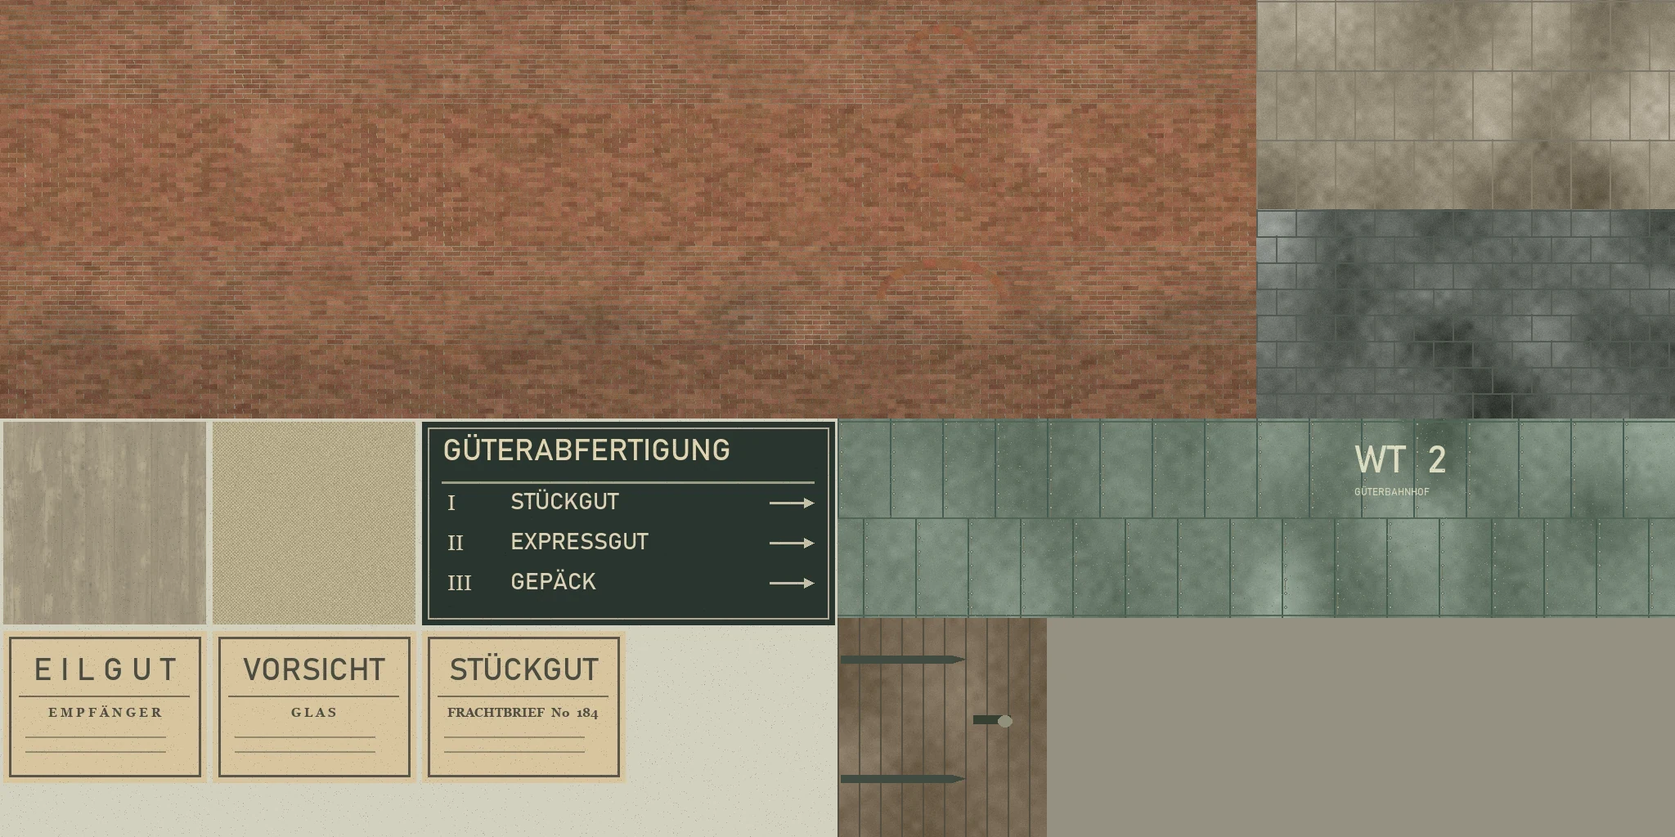
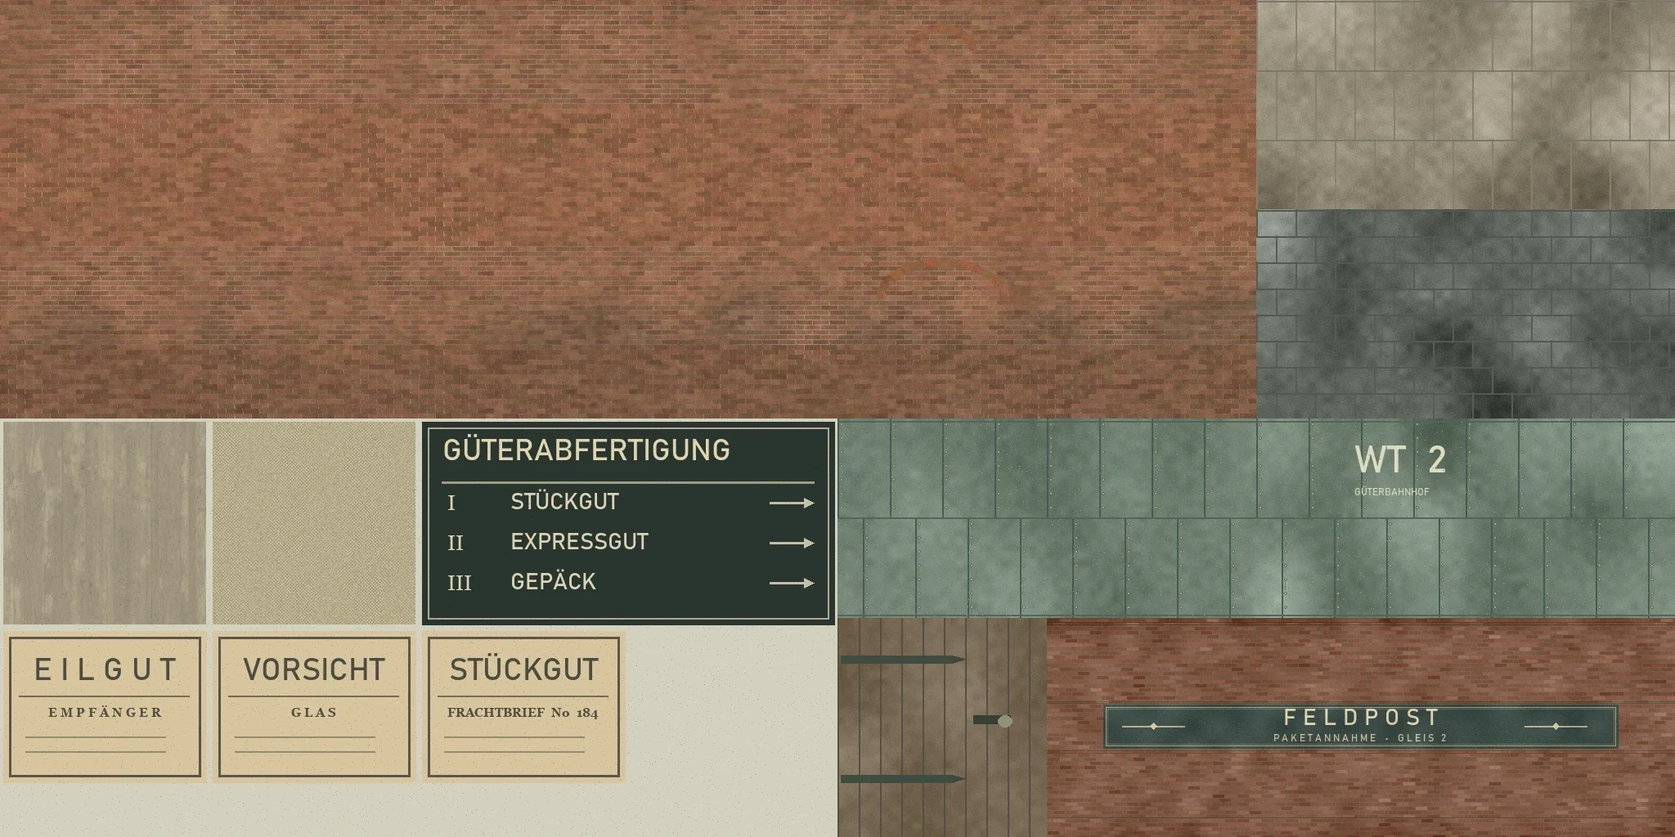
Fuse SMAA output and verify production Harbour Road battles

Changed region(s): [[0.625, 0.7188, 1.0, 1.0]]

diff --git a/client/ReleaseNotes.tsx b/client/ReleaseNotes.tsx
@@ -9,13 +9,13 @@ const changes=[
  ['Begehbare Harbour Road','Östlich der Radarstation liegen Palm Diner, Harbour Supply und Coast Records. Durch die offenen Eingänge gelangst du zu Sitznischen, Warenregalen und Plattenkisten. Die Läden haben eigene Böden, gerahmte Drucke, Verpackungen und Einrichtung. Pendelleuchten werfen warme Lichtkegel, und die Schaufenster haben profilierte Rahmen.'],
  ['Post vom Hafenamt','Die Geschäfte auf Island haben neue Aushänge. Außen an der Ostwand des Diners kannst du am Nachlassschalter mit E einen Bescheid ziehen. Auf Island hat die MP 40 einen Katzenaufsatz mit gedämpftem Schuss.'],
  ['Licht, Küste und Inselstraße','Ein fotografierter Himmel bestimmt Tageslicht und Reflexionen. Nebel und Nacht haben eigene Himmelsverläufe. Asphalt und Pflaster dunkeln bei Nebel durch Feuchtigkeit ab. Die Harbour Road führt durch eine ausgeschilderte Hafeneinfahrt zum Anleger und zum Hafenmeisterbüro. Durch die geöffneten Fenster siehst du das Funkpult, den Hafenplan und die Gezeitentafel. Hinter dem Anleger liegen Hafenkräne und der Frachter Tern Sound mit sichtbaren Stahlplattenstößen, Tiefgangsmarken, Ladebaum und Festmacherleinen. Am Ufer rollen gestaffelte Wellen mit schmalen Schaumkanten über nassen Sand, entlang der Straße wachsen Sträucher. Die Harbour Road hat einen Zebrastreifen, Straßenabläufe und einen Schachtdeckel. Felsen haben verwitterte Oberflächen mit dunkleren Gezeitenzonen. Auf Hoch und Ultra zeichnen sich Lichtmuster im flachen Wasser ab. Werkstätten und Depots tragen Dachaufbauten, Fensterrahmen und Fallrohre. Die Radarplattform hat jetzt einen Fachwerkmast, Funkkästen und neu markierte Zugänge.'],
- ['Historische Architektur','In Köln und im Güterviertel findest du Bahnhofsuhren, eiserne Vordächer und gemauerte Gesimse. Der Deutzer Bahnhof hat ein neues Vordach, Wandlaternen und eine Abfahrtstafel am Vorplatz. Nachts leuchten die Laternen, der Fahrplan und einzelne Fenster der umliegenden Häuser. Hinter den Straßen setzen sich die Häuserzeilen bis zum Horizont fort. Höhere Grafikprofile zeigen zusätzliche Gauben und Dachaufbauten. Die Kölner Eisenbahnbrücke hat ausgearbeitete Stahlbögen, Querverbände und genietete Anschlussbleche. Am Rheinufer stehen Kaimauern mit Hochwassermarken, Auslässen und Landungstreppen. Die Wasseroberfläche zeigt Strömungsrippel. Natursteinplatten, Rinnen und Fahrspuren verbinden Kino und Güterbahnhof. Beladene Handkarren stehen im Güterhof. Die Gleise haben profilierte Schienen mit blanken Laufflächen, Befestigungen und gemaserten Schwellen. Am Ende der Gleise stehen ein Bahnwasserturm und ein Wasserkran. Am Turm sind gemauerte Bögen, vertiefte Fugen und genietete Bleche sichtbar. Über dem Kölner Rheinufer ragen die beiden gotischen Domtürme mit Maßwerk und abgestuften Spitzen auf. In den Alpen liegen gestaffelte Kalkgrate mit Schneefeldern hinter den Kasernen. Unterhalb der Grate stehen Fichten. Schneeverwehungen, Radspuren und festgetretene Wege verbinden die Kasernen mit der Passstraße. Auf den Dächern liegt ungleichmäßig verteilter Schnee. Roche-la-Croix hat eine befestigte Betonfront und eine stählerne Beobachtungsglocke.'],
+ ['Historische Architektur','In Köln und im Güterviertel findest du Bahnhofsuhren, eiserne Vordächer und gemauerte Gesimse. Der Deutzer Bahnhof hat ein neues Vordach, Wandlaternen und eine Abfahrtstafel am Vorplatz. Nachts leuchten die Laternen, der Fahrplan und einzelne Fenster der umliegenden Häuser. Hinter den Straßen setzen sich die Häuserzeilen bis zum Horizont fort. Höhere Grafikprofile zeigen zusätzliche Gauben und Dachaufbauten. Die Kölner Eisenbahnbrücke hat ausgearbeitete Stahlbögen, Querverbände und genietete Anschlussbleche. Am Rheinufer stehen Kaimauern mit Hochwassermarken, Auslässen und Landungstreppen. Die Wasseroberfläche zeigt Strömungsrippel. Natursteinplatten, Rinnen und Fahrspuren verbinden Kino und Güterbahnhof. Beladene Handkarren stehen im Güterhof. Die Gleise haben profilierte Schienen mit blanken Laufflächen, Befestigungen und gemaserten Schwellen. An Gleis 2 erkennst du die Paketannahme der Feldpost an ihrer Backsteinfassade und dem gemalten Schild. Am Ende der Gleise stehen ein Bahnwasserturm und ein Wasserkran. Am Turm sind gemauerte Bögen, vertiefte Fugen und genietete Bleche sichtbar. Über dem Kölner Rheinufer ragen die beiden gotischen Domtürme mit Maßwerk und abgestuften Spitzen auf. In den Alpen liegen gestaffelte Kalkgrate mit Schneefeldern hinter den Kasernen. Unterhalb der Grate stehen Fichten. Schneeverwehungen, Radspuren und festgetretene Wege verbinden die Kasernen mit der Passstraße. Auf den Dächern liegt ungleichmäßig verteilter Schnee. Roche-la-Croix hat eine befestigte Betonfront und eine stählerne Beobachtungsglocke.'],
  ['Uniformen und Hände','Jacken und Hosen haben sichtbare Nähte und Falten. Auf Island tragen Figuren Tarnstoff, geformte Schutzwesten und gebogene Schutzgläser. Die beiden Island-Uniformen haben eigene Gesichter mit unterschiedlichem Bartwuchs, geformte Rucksäcke und sichtbare Schultergurte. Helme und Stiefel werfen vollständigere Schatten. Kontaktschatten unter den Stiefeln drehen mit der Figur und folgen geneigtem Gelände. Stiefel rollen beim Gehen und Joggen sichtbarer am Boden ab. Beim Seitwärtslaufen bleibt die Schrittführung stabil. Zeitreise-Uniformen tragen flach anliegendes Gurtzeug und geformte Taschen. In der Egoansicht siehst du Gewebestruktur, Ärmelbündchen und Details an den Händen. Hautfalten, Knöchel und abgenutzte Bündchen reflektieren unterschiedlich. Warme Raumlampen beleuchten auch Hände und Ärmel.'],
  ['Union-Lichtspiele','Im Güterviertel von Operation Abendrot steht am Platz der Alten Mühle das begehbare Kino mit Art-déco-Portal und KINO-Schriftpfeiler. Nachts sind die Schrift und der Eingang beleuchtet. Sechs historische Propagandaplakate hängen in den Schaukästen. Im Saal läuft das Archivfoto von 1935.'],
  ['Zielfernrohre und historische Ausrüstung','Das Gewehr 43 mit ZF4 ergänzt den Karabiner 98k mit ZF39. Halte die rechte Maustaste für den vierfachen Zoom. Du kannst beim Zielen mit der linken Maustaste schießen.'],
  ['Zeichen und Auszeichnungen','In Köln und im Güterviertel findest du historische Luftschutzzeichen. Nach historischen Gefechten zeigt die Ergebnisansicht verdiente Auszeichnungen.'],
  ['Lobby und Fahrparcours','Die Spielauswahl nutzt auf großen Bildschirmen mehr Breite. Die Einsatzsteuerung sitzt unten. Im Inseltraining führt der Rennwagenparcours an der Küste durch eine Unterführung.'],
- ['Flüssigeres Umsehen','Beim Blick auf geschlossene Ladenwände spart der Renderer verdeckte Teile der Insel aus. Der Modus „Flüssig“ passt die interne Auflösung an die GPU-Auslastung an. Leuchtspuren werden gemeinsam gezeichnet. Staub und Metallfunken sehen unterschiedlich aus. Explosionen zeigen einen kurzen Feuerblitz und Staub, der sich ausbreitet. Zerbrechende Scheiben streuen unterschiedlich geformte Splitter, die zusammen gezeichnet werden. Uniformteile werden gemeinsam gezeichnet. Entfernte Standardfiguren nutzen beim normalen Blick ein leichteres Körpermodell. Hoch und Ultra richten den Wechsel nach der tatsächlichen Renderauflösung. Die offene Visierung behält diese Abstufung, das Zielfernrohr zeigt das Vollmodell. Entfernte Deckungskisten bekommen in „Hoch“ einfachere Schatten, auch wenn direkt vor dir eine Kiste steht. Die Berechnung der Kontaktschatten wiederholt weniger Arbeit. Die Abschussliste und die persönliche Statusanzeige werden nur bei sichtbaren Änderungen neu aufgebaut. Das Spiel erstellt abgelegte Figuren mit weniger Rechenarbeit. Bots können den zuvor versperrten Ausrüstungspunkt auf Island erreichen. HUD und Menüs bleiben scharf.'],
+ ['Flüssigeres Umsehen','Beim Blick auf geschlossene Ladenwände spart der Renderer verdeckte Teile der Insel aus. Der Modus „Flüssig“ passt die interne Auflösung an die GPU-Auslastung an. Leuchtspuren werden gemeinsam gezeichnet. Staub und Metallfunken sehen unterschiedlich aus. Explosionen zeigen einen kurzen Feuerblitz und Staub, der sich ausbreitet. Zerbrechende Scheiben streuen unterschiedlich geformte Splitter, die zusammen gezeichnet werden. Uniformteile werden gemeinsam gezeichnet. Entfernte Standardfiguren nutzen beim normalen Blick ein leichteres Körpermodell. Hoch und Ultra richten den Wechsel nach der tatsächlichen Renderauflösung. Die offene Visierung behält diese Abstufung, das Zielfernrohr zeigt das Vollmodell. Entfernte Deckungskisten bekommen in „Hoch“ einfachere Schatten, auch wenn direkt vor dir eine Kiste steht. Kantenglättung und Farbausgabe teilen sich einen Renderdurchlauf. Die Berechnung der Kontaktschatten wiederholt weniger Arbeit. Die Abschussliste und die persönliche Statusanzeige werden nur bei sichtbaren Änderungen neu aufgebaut. Das Spiel erstellt abgelegte Figuren mit weniger Rechenarbeit. Bots können den zuvor versperrten Ausrüstungspunkt auf Island erreichen. HUD und Menüs bleiben scharf.'],
 ] as const;
 
 export function ReleaseNotes(){

diff --git a/client/freightYard.ts b/client/freightYard.ts
@@ -12,9 +12,9 @@ export function freightYard(world:World){
   // Original cargo tiles occupy the lower left quarter; the tower panels wrap once around each drum.
   const cargoTiles=[[.765,.025,.20,.10],[.006,.515,.238,.472],[.256,.515,.238,.472],
     [.506,.515,.488,.472],[.006,.135,.238,.347],[.256,.135,.238,.347],[.506,.135,.238,.347]];
-  const surfaceTiles=[[3,3,1530,506],[1027,515,1018,238],[1539,3,506,250],[1539,259,506,250],[1027,759,250,260]];
+  const surfaceTiles=[[3,3,1530,506],[1027,515,1018,238],[1539,3,506,250],[1539,259,506,250],[1027,759,250,260],[1281,757,766,266]];
   const uvRect=[...cargoTiles.map(tile=>tile.map(n=>n*.5)),...surfaceTiles.map(([x,y,w,h])=>[x/2048,1-(y+h)/1024,w/2048,h/1024])];
-  const masonry=7,ironPlate=8,stonework=9,slate=10,boardDoor=11;
+  const masonry=7,ironPlate=8,stonework=9,slate=10,boardDoor=11,postalBrick=12;
   let ox=0,oz=0;
   function add(g:T.BufferGeometry,x:number,y:number,z:number,c:string,tile=0,rx=0,ry=0,rz=0){
     g.rotateX(rx);g.rotateY(ry);g.rotateZ(rz);g.translate(ox+x,y,oz+z);
@@ -113,6 +113,36 @@ export function freightYard(world:World){
     box(hx,3.13,hz,.16,.35,.16,metal);cylinder(hx,2.93,hz,.21,.21,.14,rim,Math.PI/2);
     for(let i=0;i<8;i++)add(new T.TorusGeometry(.035,.012,4,8),hx-.08,2.74-i*.049,hz,metal,0,0,i%2*.98);
     add(new T.TorusGeometry(.067,.020,5,10,Math.PI*1.55),hx-.065,2.30,hz,rim);
+  }
+  const postOffice=world.buildings.find(b=>b.name==='FELDPOST');
+  if(postOffice){
+    ox=postOffice.x+postOffice.w/2;oz=postOffice.z;
+    const depth=postOffice.d/2,face=.244;
+    // One continuous hand-lettered elevation, clipped to the actual masonry around
+    // the sorting-room windows. Its open bays remain sightlines into both storeys.
+    function panel(low:number,high:number,near:number,far:number){
+      const geometry=new T.PlaneGeometry(far-near,high-low);
+      const uv=geometry.getAttribute('uv');
+      for(let i=0;i<uv.count;i++){
+        uv.setXY(i,(depth-far+uv.getX(i)*(far-near))/(2*depth),(low+uv.getY(i)*(high-low))/8);
+      }
+      add(geometry,face,(low+high)/2,(near+far)/2,'#fff9ee',postalBrick,0,Math.PI/2);
+    }
+    for(const [low,high] of [[.62,1.20],[2.50,5.20],[6.50,8]])panel(low,high,-depth,depth);
+    for(const low of [1.20,5.20])for(const [near,far] of [[-depth,-5],[-1.5,1.5],[5,depth]])panel(low,low+1.30,near,far);
+    for(const z of [-7.74,-.65,.65,7.74]){
+      // The middle pilasters terminate at the painted parcel office fascia.
+      for(const [base,cap] of Math.abs(z)<1?[[.63,3.04],[4.90,7.85]]:[[.63,7.85]]){
+        box(face+.041,(base+cap)/2,z,.092,cap-base,.18,'#956e58');
+        box(face+.064,cap-.08,z,.142,.15,.27,'#b2a08a');
+      }
+    }
+    for(const low of [1.20,5.20])for(const z of [-3.25,3.25]){
+      box(face+.048,low-.045,z,.19,.095,3.66,'#b1a18a');
+      box(face-.12,low+.67,z,.047,1.30,.045,'#626861');
+      box(face-.12,low+.85,z,.047,.038,3.50,'#626861');
+    }
+    box(face+.064,7.87,0,.18,.105,2*depth,'#a9947b');
   }
   // Steam-service water tower and crane beyond the eastern limit of the playable yard.
   // The existing two track centres continue into this bank instead of ending in open ground.

diff --git a/client/graphics.ts b/client/graphics.ts
@@ -6,7 +6,6 @@ import { UnrealBloomPass } from 'three/examples/jsm/postprocessing/UnrealBloomPa
 import { SMAAPass } from 'three/examples/jsm/postprocessing/SMAAPass.js';
 import {ShaderPass} from 'three/examples/jsm/postprocessing/ShaderPass.js';
 import {fxaaOutputShader} from './fxaaOutput';
-import { OutputPass } from 'three/examples/jsm/postprocessing/OutputPass.js';
 import { graphicsPresets, renderPixelRatio, ResolutionGovernor, type GraphicsQuality } from './graphicsSettings.ts';
 import {createWeaponScene} from './weaponScene';
 import {createGpuTiming} from './gpuTiming';
@@ -43,11 +42,16 @@ export function createGraphics(renderer: T.WebGLRenderer, scene: T.Scene,
   const smaa = new SMAAPass(1, 1);
   // SMAA reads only red and green edge flags. RG16F preserves their filtered values.
   smaa.edgesRT.texture.format = T.RGFormat;
+  const blendOutput='gl_FragColor = SMAANeighborhoodBlendingPS( vUv, vOffset, tColor, tDiffuse );';
+  // Keep the old half-float write precision before converting HDR to display color.
+  smaa.materialBlend.fragmentShader=smaa.materialBlend.fragmentShader.replace(blendOutput,`${blendOutput}
+   gl_FragColor = vec4(unpackHalf2x16(packHalf2x16(gl_FragColor.rg)), unpackHalf2x16(packHalf2x16(gl_FragColor.ba)));
+   #include <tonemapping_fragment>
+   #include <colorspace_fragment>`);
+  smaa.materialBlend.toneMapped=true;
   const fxaa=new ShaderPass(fxaaOutputShader);fxaa.material.toneMapped=true;
   fxaa.setSize=(w:number,h:number)=>{fxaa.uniforms.resolution.value.set(1/Math.max(1,w),1/Math.max(1,h));};
-  const output = new OutputPass();
-  // Stay in linear HDR until OutputPass performs the single tone/color conversion.
-  const pipeline=[render,ao,weaponPass,bloom,fxaa,smaa,output];
+  const pipeline=[render,ao,weaponPass,bloom,fxaa,smaa];
   // The composer receives physical pixels; changing viewport and DPR together must resize its targets only once.
   composer.setPixelRatio(1);
   let quality = initialQuality, width = 0, height = 0, ratio = 0;
@@ -96,7 +100,6 @@ export function createGraphics(renderer: T.WebGLRenderer, scene: T.Scene,
     ao.enabled = preset.ao;
     bloom.enabled = preset.bloom;
     fxaa.enabled=preset.antialias==='fxaa';smaa.enabled=preset.antialias==='smaa';
-    output.enabled=!fxaa.enabled;
     // EffectComposer.setSize also touches disabled passes. Only the active preset owns full-size buffers.
     for(const pass of composer.passes){
       if(pass!==weaponPass&&!pass.enabled)pass.setSize(1,1);
@@ -262,7 +265,7 @@ export function createGraphics(renderer: T.WebGLRenderer, scene: T.Scene,
       try{composer.render(dt);}finally{gpuTiming.end();}
     },
     dispose() {
-      for (const pass of [render, ao, weaponPass, bloom, fxaa, smaa, output]) pass.dispose();
+      for (const pass of pipeline) pass.dispose();
       // r170's SSAOPass.dispose omits these owned GPU resources.
       ao.noiseTexture.dispose();
       ao.ssaoMaterial.dispose();

diff --git a/client/actorDetails.ts b/client/actorDetails.ts
@@ -25,6 +25,12 @@ export function createActorDetails(root:T.Group){
  const details:{mesh:T.Mesh;radius:number;hidden:boolean;shadow:boolean}[]=[];
  const skins:{mesh:T.SkinnedMesh;culled:boolean;sphere:T.SkinnedMesh['boundingSphere']}[]=[];
  root.updateWorldMatrix(true,true);
+ const updateMatrixWorld=root.updateMatrixWorld;
+ // Three's render traversal still walks the bones of invisible actors. Explicit
+ // pose reads use updateWorldMatrix and can still request the current transform.
+ root.updateMatrixWorld=function(force){
+  if(this.visible)updateMatrixWorld.call(this,force);
+ };
  // Same conservative envelope as the actor-level visibility test. Convert it
  // to each mesh's local coordinates so all animation poses remain enclosed.
  const envelope=new T.Sphere(new T.Vector3().setFromMatrixPosition(root.matrixWorld).add(new T.Vector3(0,1,0)),3.5);
@@ -60,6 +66,6 @@ export function createActorDetails(root:T.Group){
    }
    return hidden;
   },
-  dispose(){distanceBodies.delete(root);for(const body of bodies)body.dispose();for(const detail of details){if(detail.hidden)detail.mesh.layers.enable(0);detail.mesh.castShadow=detail.shadow;}for(const skin of skins){skin.mesh.frustumCulled=skin.culled;skin.mesh.boundingSphere=skin.sphere;}details.length=skins.length=0;},
+  dispose(){root.updateMatrixWorld=updateMatrixWorld;distanceBodies.delete(root);for(const body of bodies)body.dispose();for(const detail of details){if(detail.hidden)detail.mesh.layers.enable(0);detail.mesh.castShadow=detail.shadow;}for(const skin of skins){skin.mesh.frustumCulled=skin.culled;skin.mesh.boundingSphere=skin.sphere;}details.length=skins.length=0;},
  };
 }

diff --git a/tests/frame-pacing.test.ts b/tests/frame-pacing.test.ts
@@ -14,6 +14,20 @@ test('cached static transforms preserve world placement and still follow a movin
  mesh.geometry.dispose();(mesh.material as T.Material).dispose();
 });
 
+test('hidden render rigs skip matrix propagation and immediately catch up when visible',()=>{
+ const scene=new T.Scene(),parent=new T.Group(),root=new T.Group(),bone=new T.Bone();
+ scene.add(parent);parent.add(root);root.add(bone);
+ const details=createActorDetails(root);
+ const worldPosition=new T.Vector3();
+ root.visible=false;parent.position.x=10;scene.updateMatrixWorld(true);
+ assert.equal(bone.matrixWorld.elements[12],0);
+ assert.equal(bone.getWorldPosition(worldPosition).x,10);
+ parent.position.x=20;root.visible=true;scene.updateMatrixWorld(true);
+ assert.equal(bone.matrixWorld.elements[12],20);
+ details.dispose();root.visible=false;parent.position.x=30;scene.updateMatrixWorld(true);
+ assert.equal(bone.matrixWorld.elements[12],30);
+});
+
 test('automatic shadows never redraw on consecutive slow frames and retain a 30 Hz ceiling',()=>{
  for(const rate of [20,30,40,60,120,144]){
   const cadence=new ShadowCadence();let updates=0,last=-2;

diff --git a/tests/harbour-road-battle.py b/tests/harbour-road-battle.py
@@ -9,8 +9,9 @@ from pathlib import Path
 from playwright.sync_api import TimeoutError as PlaywrightTimeout, sync_playwright
 
 
-BASE = 'http://127.0.0.1:5173'
-OUT = Path('artifacts/harbour-battle')
+PRODUCTION = os.environ.get('BATTLE_PRODUCTION') == '1'
+BASE = os.environ.get('BATTLE_BASE_URL', 'http://127.0.0.1:5173')
+OUT = Path('artifacts/harbour-battle') / ('production' if PRODUCTION else '')
 OUT.mkdir(parents=True, exist_ok=True)
 COMBAT_MOVEMENT = os.environ.get('BATTLE_COMBAT_MOVEMENT') == '1'
 
@@ -19,25 +20,8 @@ def observe(route):
     # Add read-only probes to the local Vite response, leaving gameplay and frame scheduling intact.
     response = route.fetch()
     source, count = re.subn(r'(scene\.current\?\.update\(s, (\w+)\.playerId\);)',
-        r'\1 window.harbourQA={player:own,state:s,scene:scene.current};', response.text())
+        r'\1 window.observeHarbourBattle(own,s,scene.current);', response.text())
     assert count == 1, 'Snapshot observation point changed'
-    if COMBAT_MOVEMENT:
-        source=source.replace('window.harbourQA={player:own,state:s,scene:scene.current};',
-            '''window.harbourQA={player:own,state:s,scene:scene.current};
-            const probe=window.combatMotionProbe;
-            if(probe && own && own.life===probe.life){
-              probe.distance+=Math.hypot(own.x-probe.x,own.z-probe.z);
-              probe.x=own.x;probe.z=own.z;
-              for(const e of s.events){
-                if(!probe.seen.has(e.eventId) && e.eventId){
-                  probe.seen.add(e.eventId);
-                  if(e.type==='shot' && e.id===own.id) probe.shots++;
-                  if(e.type==='shot' && s.players.some(p=>p.id===e.id && p.kind==='bot')) probe.botShots++;
-                  if(e.type==='hit' && e.id===own.id) probe.hits++;
-                  if(e.type==='glass') probe.glass++;
-                }
-              }
-            }''')
     route.fulfill(response=response, body=source)
 
 
@@ -159,6 +143,7 @@ with sync_playwright() as pw:
     width,height = map(int,os.environ.get('HARBOUR_VIEWPORT','1280x720').split('x'))
     quality=os.environ.get('BATTLE_GRAPHICS','performance')
     assert quality in ('auto','performance','high','ultra'),quality
+    quality_suffix='' if quality=='performance' else '-'+quality
     page = browser.new_page(viewport=dict(width=width,height=height), device_scale_factor=1)
     page.add_init_script(f"localStorage.setItem('altstadt.graphics.v3',{json.dumps(quality)})")
     page.add_init_script("""if(PerformanceObserver.supportedEntryTypes.includes('long-animation-frame')){
@@ -208,11 +193,28 @@ with sync_playwright() as pw:
             }
             return log;
           }""".replace("split('\n')","split('\\n')"))
-    page.route(re.compile(r'/client/App\.tsx(\?|$)'), observe)
-    # Keep the measured game on the version it opened with, including during local Vite edits.
-    page.add_init_script("""window.WebSocket=class extends WebSocket {
-      constructor(url, protocols){super(url,protocols);if(protocols==='vite-hmr')this.addEventListener('message',event=>event.stopImmediatePropagation());}
-    }""")
+    page.add_init_script("""window.observeHarbourBattle=(own,s,scene,worldBoxes)=>{
+        window.harbourQA={player:own,state:s,scene,worldBoxes};
+        """ + ("""            const probe=window.combatMotionProbe;
+            if(probe && own && own.life===probe.life){
+              probe.distance+=Math.hypot(own.x-probe.x,own.z-probe.z);
+              probe.x=own.x;probe.z=own.z;
+              for(const e of s.events){
+                if(!probe.seen.has(e.eventId) && e.eventId){
+                  probe.seen.add(e.eventId);
+                  if(e.type==='shot' && e.id===own.id) probe.shots++;
+                  if(e.type==='shot' && s.players.some(p=>p.id===e.id && p.kind==='bot')) probe.botShots++;
+                  if(e.type==='hit' && e.id===own.id) probe.hits++;
+                  if(e.type==='glass') probe.glass++;
+                }
+              }
+            }""" if COMBAT_MOVEMENT else '') + "};")
+    if not PRODUCTION:
+        page.route(re.compile(r'/client/App\.tsx(\?|$)'), observe)
+        # Keep the measured game on the version it opened with, including during local Vite edits.
+        page.add_init_script("""window.WebSocket=class extends WebSocket {
+          constructor(url, protocols){super(url,protocols);if(protocols==='vite-hmr')this.addEventListener('message',event=>event.stopImmediatePropagation());}
+        }""")
     page.goto(BASE,wait_until='domcontentloaded')
     button = lambda name: page.get_by_role('button',name=name,exact=True)
     button('Verstanden · zur App').click()
@@ -264,10 +266,15 @@ with sync_playwright() as pw:
         # All movement still goes through the mouse and keyboard.
         def find_route():
             start, boxes = page.evaluate("""async()=>{
-              const {getWorld}=await import('/shared/world.ts');
-              const {interiorWorld}=await import('/shared/interiors.ts');
-              const w=interiorWorld(getWorld('storm'),harbourQA.state.interiors);
-              return [[harbourQA.player.x,harbourQA.player.z],w.boxes
+              const qa=harbourQA;
+              let boxes;
+              if(qa.worldBoxes) boxes=qa.worldBoxes();
+              else {
+                const {getWorld}=await import('/shared/world.ts');
+                const {interiorWorld}=await import('/shared/interiors.ts');
+                boxes=interiorWorld(getWorld('storm'),qa.state.interiors).boxes;
+              }
+              return [[qa.player.x,qa.player.z],boxes
                 .filter(b=>b.y-b.h/2<1.75 && b.y+b.h/2>.29)
                 .map(b=>[b.x,b.z,b.w,b.d])];
             }""")
@@ -343,7 +350,6 @@ with sync_playwright() as pw:
             profiler.detach()
         result=dict(bots=bots,width=width,height=height,quality=quality,entry=entry,turn=turn)
         suffix='-combat' if COMBAT_MOVEMENT else ''
-        quality_suffix='' if quality=='performance' else '-'+quality
         report=OUT/f'{map_id}-{bots}-bots-{width}x{height}{suffix}{quality_suffix}.json'
         report.write_text(json.dumps(result,indent=2))
         try:
@@ -419,6 +425,6 @@ with sync_playwright() as pw:
         (OUT/'storm-shops-profile-timing.json').write_text(json.dumps(dict(start=profile_start)))
         road_profiler.detach()
     suffix=f'-{condition}' if condition else ''
-    report=dict(bots=bots,width=width,height=height,condition=condition or 'standard',results=results)
-    (OUT/f'report-{bots}-bots-{width}x{height}{suffix}.json').write_text(json.dumps(report,indent=2))
+    report=dict(bots=bots,width=width,height=height,quality=quality,condition=condition or 'standard',results=results)
+    (OUT/f'report-{bots}-bots-{width}x{height}{suffix}{quality_suffix}.json').write_text(json.dumps(report,indent=2))
     browser.close()
